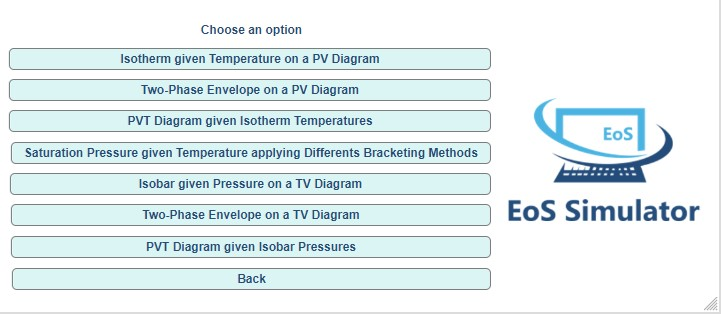
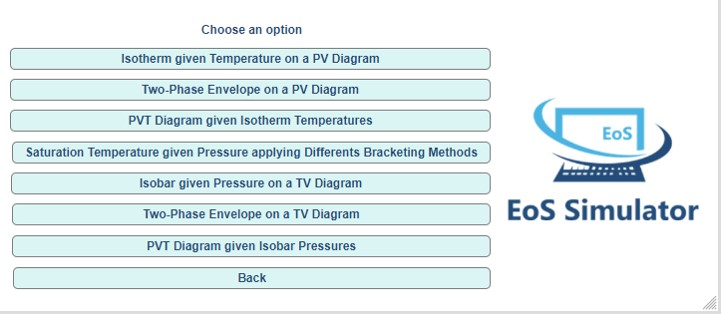
Code Documentation

diff --git a/Cubic Equations of State Simulator/Code Documentation/Volume 4 - Saturation Temperature given Pressure applying Differents Bracketing Methods.md b/Cubic Equations of State Simulator/Code Documentation/Volume 4 - Saturation Temperature given Pressure applying Differents Bracketing Methods.md
@@ -1,6 +1,6 @@
-# Saturation Pressure given Temperature applying Differents Bracketing Methods
+# Saturation Temperature given Pressure applying Differents Bracketing Methods
 
-This is the fourth option in the volume menu. Its interface is programmed in "Volume4.mlapp" and it uses the function called "Saturation_Pressure_given_Temperature.m" for thermodynamic calculations.
+This is the fourth option in the volume menu. Its interface is programmed in "Volume4.mlapp" and it uses the function called "Saturation_Temperature_given_Pressure.m" for thermodynamic calculations.
 
 ## 1. MATLAB App
 
@@ -39,7 +39,7 @@ classdef Volume4 < matlab.apps.AppBase
         BackButton                   matlab.ui.control.Button
         ExportButton                 matlab.ui.control.Button
         Table2vdW                    matlab.ui.control.Table
-        PsatgivenTapplyingDifferentsBracketingMethods  matlab.ui.control.Label
+        TsatgivenPapplyingDifferentsBracketingMethods  matlab.ui.control.Label
         Image                        matlab.ui.control.Image
         CalculateButton              matlab.ui.control.Button
         Figure1PR                    matlab.ui.control.UIAxes
@@ -82,7 +82,7 @@ classdef Volume4 < matlab.apps.AppBase
             if tam>0
                 progressbar=uiprogressdlg(app.UIFigure,"Title","Status","Message","Calculating","Indeterminate","on","Cancelable","off");
                 drawnow;
-                Saturation_Pressure_given_Temperature;
+                Saturation_Temperature_given_Pressure;
                 app.ExportButton.Visible="on";
                 app.TitleFigure1.Text=strcat(app.Compound.Value," - Iterations vs Saturation Pressure");
                 close(progressbar);
@@ -157,76 +157,76 @@ classdef Volume4 < matlab.apps.AppBase
             table2PR.Properties.VariableNames{'Var9'}='Iterations-P';
             table2PR.Properties.VariableNames{'Var10'}='Tsat-AB [K]';
             table2PR.Properties.VariableNames{'Var11'}='Iterations-AB';
-            writecell(cell(10,8),"./Results/Saturation Pressure given Temperature applying Differents Bracketing Methods.xlsx","Sheet","Total Iterations vs EoS","Range","A1");
-            writetable(table1,"./Results/Saturation Pressure given Temperature applying Differents Bracketing Methods.xlsx","Sheet","Total Iterations vs EoS","Range","A4");
-            writecell({'Compound'},"./Results/Saturation Pressure given Temperature applying Differents Bracketing Methods.xlsx","Sheet","Total Iterations vs EoS","Range","A1");
-            writecell({'Triple Temperature [K]'},"./Results/Saturation Pressure given Temperature applying Differents Bracketing Methods.xlsx","Sheet","Total Iterations vs EoS","Range","A2");
-            writecell({'Close to Critical Temperature (CCT) [K]'},"./Results/Saturation Pressure given Temperature applying Differents Bracketing Methods.xlsx","Sheet","Total Iterations vs EoS","Range","A3");
-            writecell({app.Compound.Value},"./Results/Saturation Pressure given Temperature applying Differents Bracketing Methods.xlsx","Sheet","Total Iterations vs EoS","Range","B1");
-            writematrix(str2double({app.TripleTemperature.Value}),"./Results/Saturation Pressure given Temperature applying Differents Bracketing Methods.xlsx","Sheet","Total Iterations vs EoS","Range","B2");
-            writematrix(str2double({app.CriticalTemperature.Value}),"./Results/Saturation Pressure given Temperature applying Differents Bracketing Methods.xlsx","Sheet","Total Iterations vs EoS","Range","B3");
-            writecell(cell(5000,11),"./Results/Saturation Pressure given Temperature applying Differents Bracketing Methods.xlsx","Sheet","vdW - Iterations vs Psat","Range","A1");
-            writetable(table2vdW,"./Results/Saturation Pressure given Temperature applying Differents Bracketing Methods.xlsx","Sheet","vdW - Iterations vs Psat");
+            writecell(cell(10,8),"./Results/Saturation Temperature given Pressure applying Differents Bracketing Methods.xlsx","Sheet","Total Iterations vs EoS","Range","A1");
+            writetable(table1,"./Results/Saturation Temperature given Pressure applying Differents Bracketing Methods.xlsx","Sheet","Total Iterations vs EoS","Range","A4");
+            writecell({'Compound'},"./Results/Saturation Temperature given Pressure applying Differents Bracketing Methods.xlsx","Sheet","Total Iterations vs EoS","Range","A1");
+            writecell({'Triple Temperature [K]'},"./Results/Saturation Temperature given Pressure applying Differents Bracketing Methods.xlsx","Sheet","Total Iterations vs EoS","Range","A2");
+            writecell({'Close to Critical Temperature (CCT) [K]'},"./Results/Saturation Temperature given Pressure applying Differents Bracketing Methods.xlsx","Sheet","Total Iterations vs EoS","Range","A3");
+            writecell({app.Compound.Value},"./Results/Saturation Temperature given Pressure applying Differents Bracketing Methods.xlsx","Sheet","Total Iterations vs EoS","Range","B1");
+            writematrix(str2double({app.TripleTemperature.Value}),"./Results/Saturation Temperature given Pressure applying Differents Bracketing Methods.xlsx","Sheet","Total Iterations vs EoS","Range","B2");
+            writematrix(str2double({app.CriticalTemperature.Value}),"./Results/Saturation Temperature given Pressure applying Differents Bracketing Methods.xlsx","Sheet","Total Iterations vs EoS","Range","B3");
+            writecell(cell(5000,11),"./Results/Saturation Temperature given Pressure applying Differents Bracketing Methods.xlsx","Sheet","vdW - Iterations vs Psat","Range","A1");
+            writetable(table2vdW,"./Results/Saturation Temperature given Pressure applying Differents Bracketing Methods.xlsx","Sheet","vdW - Iterations vs Psat");
             for i=2:1+height(table2vdW)
-                if ismissing(string(readcell("./Results/Saturation Pressure given Temperature applying Differents Bracketing Methods.xlsx","Sheet","vdW - Iterations vs Psat","Range",[i,2,i,2])))
-                    writecell({'NaN'},"./Results/Saturation Pressure given Temperature applying Differents Bracketing Methods.xlsx","Sheet","vdW - Iterations vs Psat","Range",['B',num2str(i)]);
-                    writecell({'NaN'},"./Results/Saturation Pressure given Temperature applying Differents Bracketing Methods.xlsx","Sheet","vdW - Iterations vs Psat","Range",['C',num2str(i)]);
-                    writecell({'NaN'},"./Results/Saturation Pressure given Temperature applying Differents Bracketing Methods.xlsx","Sheet","vdW - Iterations vs Psat","Range",['D',num2str(i)]);
-                    writecell({'NaN'},"./Results/Saturation Pressure given Temperature applying Differents Bracketing Methods.xlsx","Sheet","vdW - Iterations vs Psat","Range",['E',num2str(i)]);
-                    writecell({'NaN'},"./Results/Saturation Pressure given Temperature applying Differents Bracketing Methods.xlsx","Sheet","vdW - Iterations vs Psat","Range",['F',num2str(i)]);
-                    writecell({'NaN'},"./Results/Saturation Pressure given Temperature applying Differents Bracketing Methods.xlsx","Sheet","vdW - Iterations vs Psat","Range",['G',num2str(i)]);
-                    writecell({'NaN'},"./Results/Saturation Pressure given Temperature applying Differents Bracketing Methods.xlsx","Sheet","vdW - Iterations vs Psat","Range",['H',num2str(i)]);
-                    writecell({'NaN'},"./Results/Saturation Pressure given Temperature applying Differents Bracketing Methods.xlsx","Sheet","vdW - Iterations vs Psat","Range",['I',num2str(i)]);
-                    writecell({'NaN'},"./Results/Saturation Pressure given Temperature applying Differents Bracketing Methods.xlsx","Sheet","vdW - Iterations vs Psat","Range",['J',num2str(i)]);
-                    writecell({'NaN'},"./Results/Saturation Pressure given Temperature applying Differents Bracketing Methods.xlsx","Sheet","vdW - Iterations vs Psat","Range",['K',num2str(i)]);
+                if ismissing(string(readcell("./Results/Saturation Temperature given Pressure applying Differents Bracketing Methods.xlsx","Sheet","vdW - Iterations vs Psat","Range",[i,2,i,2])))
+                    writecell({'NaN'},"./Results/Saturation Temperature given Pressure applying Differents Bracketing Methods.xlsx","Sheet","vdW - Iterations vs Psat","Range",['B',num2str(i)]);
+                    writecell({'NaN'},"./Results/Saturation Temperature given Pressure applying Differents Bracketing Methods.xlsx","Sheet","vdW - Iterations vs Psat","Range",['C',num2str(i)]);
+                    writecell({'NaN'},"./Results/Saturation Temperature given Pressure applying Differents Bracketing Methods.xlsx","Sheet","vdW - Iterations vs Psat","Range",['D',num2str(i)]);
+                    writecell({'NaN'},"./Results/Saturation Temperature given Pressure applying Differents Bracketing Methods.xlsx","Sheet","vdW - Iterations vs Psat","Range",['E',num2str(i)]);
+                    writecell({'NaN'},"./Results/Saturation Temperature given Pressure applying Differents Bracketing Methods.xlsx","Sheet","vdW - Iterations vs Psat","Range",['F',num2str(i)]);
+                    writecell({'NaN'},"./Results/Saturation Temperature given Pressure applying Differents Bracketing Methods.xlsx","Sheet","vdW - Iterations vs Psat","Range",['G',num2str(i)]);
+                    writecell({'NaN'},"./Results/Saturation Temperature given Pressure applying Differents Bracketing Methods.xlsx","Sheet","vdW - Iterations vs Psat","Range",['H',num2str(i)]);
+                    writecell({'NaN'},"./Results/Saturation Temperature given Pressure applying Differents Bracketing Methods.xlsx","Sheet","vdW - Iterations vs Psat","Range",['I',num2str(i)]);
+                    writecell({'NaN'},"./Results/Saturation Temperature given Pressure applying Differents Bracketing Methods.xlsx","Sheet","vdW - Iterations vs Psat","Range",['J',num2str(i)]);
+                    writecell({'NaN'},"./Results/Saturation Temperature given Pressure applying Differents Bracketing Methods.xlsx","Sheet","vdW - Iterations vs Psat","Range",['K',num2str(i)]);
                 end
             end
-            writecell(cell(5000,11),"./Results/Saturation Pressure given Temperature applying Differents Bracketing Methods.xlsx","Sheet","RK - Iterations vs Psat","Range","A1");
-            writetable(table2RK,"./Results/Saturation Pressure given Temperature applying Differents Bracketing Methods.xlsx","Sheet","RK - Iterations vs Psat");
+            writecell(cell(5000,11),"./Results/Saturation Temperature given Pressure applying Differents Bracketing Methods.xlsx","Sheet","RK - Iterations vs Psat","Range","A1");
+            writetable(table2RK,"./Results/Saturation Temperature given Pressure applying Differents Bracketing Methods.xlsx","Sheet","RK - Iterations vs Psat");
             for i=2:1+height(table2RK)
-                if ismissing(string(readcell("./Results/Saturation Pressure given Temperature applying Differents Bracketing Methods.xlsx","Sheet","RK - Iterations vs Psat","Range",[i,2,i,2])))
-                    writecell({'NaN'},"./Results/Saturation Pressure given Temperature applying Differents Bracketing Methods.xlsx","Sheet","RK - Iterations vs Psat","Range",['B',num2str(i)]);
-                    writecell({'NaN'},"./Results/Saturation Pressure given Temperature applying Differents Bracketing Methods.xlsx","Sheet","RK - Iterations vs Psat","Range",['C',num2str(i)]);
-                    writecell({'NaN'},"./Results/Saturation Pressure given Temperature applying Differents Bracketing Methods.xlsx","Sheet","RK - Iterations vs Psat","Range",['D',num2str(i)]);
-                    writecell({'NaN'},"./Results/Saturation Pressure given Temperature applying Differents Bracketing Methods.xlsx","Sheet","RK - Iterations vs Psat","Range",['E',num2str(i)]);
-                    writecell({'NaN'},"./Results/Saturation Pressure given Temperature applying Differents Bracketing Methods.xlsx","Sheet","RK - Iterations vs Psat","Range",['F',num2str(i)]);
-                    writecell({'NaN'},"./Results/Saturation Pressure given Temperature applying Differents Bracketing Methods.xlsx","Sheet","RK - Iterations vs Psat","Range",['G',num2str(i)]);
-                    writecell({'NaN'},"./Results/Saturation Pressure given Temperature applying Differents Bracketing Methods.xlsx","Sheet","RK - Iterations vs Psat","Range",['H',num2str(i)]);
-                    writecell({'NaN'},"./Results/Saturation Pressure given Temperature applying Differents Bracketing Methods.xlsx","Sheet","RK - Iterations vs Psat","Range",['I',num2str(i)]);
-                    writecell({'NaN'},"./Results/Saturation Pressure given Temperature applying Differents Bracketing Methods.xlsx","Sheet","RK - Iterations vs Psat","Range",['J',num2str(i)]);
-                    writecell({'NaN'},"./Results/Saturation Pressure given Temperature applying Differents Bracketing Methods.xlsx","Sheet","RK - Iterations vs Psat","Range",['K',num2str(i)]);
+                if ismissing(string(readcell("./Results/Saturation Temperature given Pressure applying Differents Bracketing Methods.xlsx","Sheet","RK - Iterations vs Psat","Range",[i,2,i,2])))
+                    writecell({'NaN'},"./Results/Saturation Temperature given Pressure applying Differents Bracketing Methods.xlsx","Sheet","RK - Iterations vs Psat","Range",['B',num2str(i)]);
+                    writecell({'NaN'},"./Results/Saturation Temperature given Pressure applying Differents Bracketing Methods.xlsx","Sheet","RK - Iterations vs Psat","Range",['C',num2str(i)]);
+                    writecell({'NaN'},"./Results/Saturation Temperature given Pressure applying Differents Bracketing Methods.xlsx","Sheet","RK - Iterations vs Psat","Range",['D',num2str(i)]);
+                    writecell({'NaN'},"./Results/Saturation Temperature given Pressure applying Differents Bracketing Methods.xlsx","Sheet","RK - Iterations vs Psat","Range",['E',num2str(i)]);
+                    writecell({'NaN'},"./Results/Saturation Temperature given Pressure applying Differents Bracketing Methods.xlsx","Sheet","RK - Iterations vs Psat","Range",['F',num2str(i)]);
+                    writecell({'NaN'},"./Results/Saturation Temperature given Pressure applying Differents Bracketing Methods.xlsx","Sheet","RK - Iterations vs Psat","Range",['G',num2str(i)]);
+                    writecell({'NaN'},"./Results/Saturation Temperature given Pressure applying Differents Bracketing Methods.xlsx","Sheet","RK - Iterations vs Psat","Range",['H',num2str(i)]);
+                    writecell({'NaN'},"./Results/Saturation Temperature given Pressure applying Differents Bracketing Methods.xlsx","Sheet","RK - Iterations vs Psat","Range",['I',num2str(i)]);
+                    writecell({'NaN'},"./Results/Saturation Temperature given Pressure applying Differents Bracketing Methods.xlsx","Sheet","RK - Iterations vs Psat","Range",['J',num2str(i)]);
+                    writecell({'NaN'},"./Results/Saturation Temperature given Pressure applying Differents Bracketing Methods.xlsx","Sheet","RK - Iterations vs Psat","Range",['K',num2str(i)]);
                 end
             end
-            writecell(cell(5000,11),"./Results/Saturation Pressure given Temperature applying Differents Bracketing Methods.xlsx","Sheet","SRK - Iterations vs Psat","Range","A1");
-            writetable(table2SRK,"./Results/Saturation Pressure given Temperature applying Differents Bracketing Methods.xlsx","Sheet","SRK - Iterations vs Psat");
+            writecell(cell(5000,11),"./Results/Saturation Temperature given Pressure applying Differents Bracketing Methods.xlsx","Sheet","SRK - Iterations vs Psat","Range","A1");
+            writetable(table2SRK,"./Results/Saturation Temperature given Pressure applying Differents Bracketing Methods.xlsx","Sheet","SRK - Iterations vs Psat");
             for i=2:1+height(table2SRK)
-                if ismissing(string(readcell("./Results/Saturation Pressure given Temperature applying Differents Bracketing Methods.xlsx","Sheet","SRK - Iterations vs Psat","Range",[i,2,i,2])))
-                    writecell({'NaN'},"./Results/Saturation Pressure given Temperature applying Differents Bracketing Methods.xlsx","Sheet","SRK - Iterations vs Psat","Range",['B',num2str(i)]);
-                    writecell({'NaN'},"./Results/Saturation Pressure given Temperature applying Differents Bracketing Methods.xlsx","Sheet","SRK - Iterations vs Psat","Range",['C',num2str(i)]);
-                    writecell({'NaN'},"./Results/Saturation Pressure given Temperature applying Differents Bracketing Methods.xlsx","Sheet","SRK - Iterations vs Psat","Range",['D',num2str(i)]);
-                    writecell({'NaN'},"./Results/Saturation Pressure given Temperature applying Differents Bracketing Methods.xlsx","Sheet","SRK - Iterations vs Psat","Range",['E',num2str(i)]);
-                    writecell({'NaN'},"./Results/Saturation Pressure given Temperature applying Differents Bracketing Methods.xlsx","Sheet","SRK - Iterations vs Psat","Range",['F',num2str(i)]);
-                    writecell({'NaN'},"./Results/Saturation Pressure given Temperature applying Differents Bracketing Methods.xlsx","Sheet","SRK - Iterations vs Psat","Range",['G',num2str(i)]);
-                    writecell({'NaN'},"./Results/Saturation Pressure given Temperature applying Differents Bracketing Methods.xlsx","Sheet","SRK - Iterations vs Psat","Range",['H',num2str(i)]);
-                    writecell({'NaN'},"./Results/Saturation Pressure given Temperature applying Differents Bracketing Methods.xlsx","Sheet","SRK - Iterations vs Psat","Range",['I',num2str(i)]);
-                    writecell({'NaN'},"./Results/Saturation Pressure given Temperature applying Differents Bracketing Methods.xlsx","Sheet","SRK - Iterations vs Psat","Range",['J',num2str(i)]);
-                    writecell({'NaN'},"./Results/Saturation Pressure given Temperature applying Differents Bracketing Methods.xlsx","Sheet","SRK - Iterations vs Psat","Range",['K',num2str(i)]);
+                if ismissing(string(readcell("./Results/Saturation Temperature given Pressure applying Differents Bracketing Methods.xlsx","Sheet","SRK - Iterations vs Psat","Range",[i,2,i,2])))
+                    writecell({'NaN'},"./Results/Saturation Temperature given Pressure applying Differents Bracketing Methods.xlsx","Sheet","SRK - Iterations vs Psat","Range",['B',num2str(i)]);
+                    writecell({'NaN'},"./Results/Saturation Temperature given Pressure applying Differents Bracketing Methods.xlsx","Sheet","SRK - Iterations vs Psat","Range",['C',num2str(i)]);
+                    writecell({'NaN'},"./Results/Saturation Temperature given Pressure applying Differents Bracketing Methods.xlsx","Sheet","SRK - Iterations vs Psat","Range",['D',num2str(i)]);
+                    writecell({'NaN'},"./Results/Saturation Temperature given Pressure applying Differents Bracketing Methods.xlsx","Sheet","SRK - Iterations vs Psat","Range",['E',num2str(i)]);
+                    writecell({'NaN'},"./Results/Saturation Temperature given Pressure applying Differents Bracketing Methods.xlsx","Sheet","SRK - Iterations vs Psat","Range",['F',num2str(i)]);
+                    writecell({'NaN'},"./Results/Saturation Temperature given Pressure applying Differents Bracketing Methods.xlsx","Sheet","SRK - Iterations vs Psat","Range",['G',num2str(i)]);
+                    writecell({'NaN'},"./Results/Saturation Temperature given Pressure applying Differents Bracketing Methods.xlsx","Sheet","SRK - Iterations vs Psat","Range",['H',num2str(i)]);
+                    writecell({'NaN'},"./Results/Saturation Temperature given Pressure applying Differents Bracketing Methods.xlsx","Sheet","SRK - Iterations vs Psat","Range",['I',num2str(i)]);
+                    writecell({'NaN'},"./Results/Saturation Temperature given Pressure applying Differents Bracketing Methods.xlsx","Sheet","SRK - Iterations vs Psat","Range",['J',num2str(i)]);
+                    writecell({'NaN'},"./Results/Saturation Temperature given Pressure applying Differents Bracketing Methods.xlsx","Sheet","SRK - Iterations vs Psat","Range",['K',num2str(i)]);
                 end
             end
-            writecell(cell(5000,11),"./Results/Saturation Pressure given Temperature applying Differents Bracketing Methods.xlsx","Sheet","PR - Iterations vs Psat","Range","A1");
-            writetable(table2PR,"./Results/Saturation Pressure given Temperature applying Differents Bracketing Methods.xlsx","Sheet","PR - Iterations vs Psat");
+            writecell(cell(5000,11),"./Results/Saturation Temperature given Pressure applying Differents Bracketing Methods.xlsx","Sheet","PR - Iterations vs Psat","Range","A1");
+            writetable(table2PR,"./Results/Saturation Temperature given Pressure applying Differents Bracketing Methods.xlsx","Sheet","PR - Iterations vs Psat");
             for i=2:1+height(table2PR)
-                if ismissing(string(readcell("./Results/Saturation Pressure given Temperature applying Differents Bracketing Methods.xlsx","Sheet","PR - Iterations vs Psat","Range",[i,2,i,2])))
-                    writecell({'NaN'},"./Results/Saturation Pressure given Temperature applying Differents Bracketing Methods.xlsx","Sheet","PR - Iterations vs Psat","Range",['B',num2str(i)]);
-                    writecell({'NaN'},"./Results/Saturation Pressure given Temperature applying Differents Bracketing Methods.xlsx","Sheet","PR - Iterations vs Psat","Range",['C',num2str(i)]);
-                    writecell({'NaN'},"./Results/Saturation Pressure given Temperature applying Differents Bracketing Methods.xlsx","Sheet","PR - Iterations vs Psat","Range",['D',num2str(i)]);
-                    writecell({'NaN'},"./Results/Saturation Pressure given Temperature applying Differents Bracketing Methods.xlsx","Sheet","PR - Iterations vs Psat","Range",['E',num2str(i)]);
-                    writecell({'NaN'},"./Results/Saturation Pressure given Temperature applying Differents Bracketing Methods.xlsx","Sheet","PR - Iterations vs Psat","Range",['F',num2str(i)]);
-                    writecell({'NaN'},"./Results/Saturation Pressure given Temperature applying Differents Bracketing Methods.xlsx","Sheet","PR - Iterations vs Psat","Range",['G',num2str(i)]);
-                    writecell({'NaN'},"./Results/Saturation Pressure given Temperature applying Differents Bracketing Methods.xlsx","Sheet","PR - Iterations vs Psat","Range",['H',num2str(i)]);
-                    writecell({'NaN'},"./Results/Saturation Pressure given Temperature applying Differents Bracketing Methods.xlsx","Sheet","PR - Iterations vs Psat","Range",['I',num2str(i)]);
-                    writecell({'NaN'},"./Results/Saturation Pressure given Temperature applying Differents Bracketing Methods.xlsx","Sheet","PR - Iterations vs Psat","Range",['J',num2str(i)]);
-                    writecell({'NaN'},"./Results/Saturation Pressure given Temperature applying Differents Bracketing Methods.xlsx","Sheet","PR - Iterations vs Psat","Range",['K',num2str(i)]);
+                if ismissing(string(readcell("./Results/Saturation Temperature given Pressure applying Differents Bracketing Methods.xlsx","Sheet","PR - Iterations vs Psat","Range",[i,2,i,2])))
+                    writecell({'NaN'},"./Results/Saturation Temperature given Pressure applying Differents Bracketing Methods.xlsx","Sheet","PR - Iterations vs Psat","Range",['B',num2str(i)]);
+                    writecell({'NaN'},"./Results/Saturation Temperature given Pressure applying Differents Bracketing Methods.xlsx","Sheet","PR - Iterations vs Psat","Range",['C',num2str(i)]);
+                    writecell({'NaN'},"./Results/Saturation Temperature given Pressure applying Differents Bracketing Methods.xlsx","Sheet","PR - Iterations vs Psat","Range",['D',num2str(i)]);
+                    writecell({'NaN'},"./Results/Saturation Temperature given Pressure applying Differents Bracketing Methods.xlsx","Sheet","PR - Iterations vs Psat","Range",['E',num2str(i)]);
+                    writecell({'NaN'},"./Results/Saturation Temperature given Pressure applying Differents Bracketing Methods.xlsx","Sheet","PR - Iterations vs Psat","Range",['F',num2str(i)]);
+                    writecell({'NaN'},"./Results/Saturation Temperature given Pressure applying Differents Bracketing Methods.xlsx","Sheet","PR - Iterations vs Psat","Range",['G',num2str(i)]);
+                    writecell({'NaN'},"./Results/Saturation Temperature given Pressure applying Differents Bracketing Methods.xlsx","Sheet","PR - Iterations vs Psat","Range",['H',num2str(i)]);
+                    writecell({'NaN'},"./Results/Saturation Temperature given Pressure applying Differents Bracketing Methods.xlsx","Sheet","PR - Iterations vs Psat","Range",['I',num2str(i)]);
+                    writecell({'NaN'},"./Results/Saturation Temperature given Pressure applying Differents Bracketing Methods.xlsx","Sheet","PR - Iterations vs Psat","Range",['J',num2str(i)]);
+                    writecell({'NaN'},"./Results/Saturation Temperature given Pressure applying Differents Bracketing Methods.xlsx","Sheet","PR - Iterations vs Psat","Range",['K',num2str(i)]);
                 end
             end
             close(progressbar);
@@ -266,7 +266,7 @@ classdef Volume4 < matlab.apps.AppBase
             app.UIFigure = uifigure('Visible', 'off');
             app.UIFigure.Color = [1 1 1];
             app.UIFigure.Position = [100 100 1221 665];
-            app.UIFigure.Name = 'Saturation Pressure given Temperature applying Differents Bracketing Methods';
+            app.UIFigure.Name = 'Saturation Temperature given Pressure applying Differents Bracketing Methods';
             app.UIFigure.Icon = fullfile(pathToMLAPP, 'Logoico.png');
             app.UIFigure.Resize = 'off';
 
@@ -357,14 +357,14 @@ classdef Volume4 < matlab.apps.AppBase
             app.Image.Position = [67 504 116 101];
             app.Image.ImageSource = fullfile(pathToMLAPP, 'Logoico.png');
 
-            % Create PsatgivenTapplyingDifferentsBracketingMethods
-            app.PsatgivenTapplyingDifferentsBracketingMethods = uilabel(app.UIFigure);
-            app.PsatgivenTapplyingDifferentsBracketingMethods.HorizontalAlignment = 'center';
-            app.PsatgivenTapplyingDifferentsBracketingMethods.FontSize = 20;
-            app.PsatgivenTapplyingDifferentsBracketingMethods.FontWeight = 'bold';
-            app.PsatgivenTapplyingDifferentsBracketingMethods.FontColor = [0.1412 0.302 0.4784];
-            app.PsatgivenTapplyingDifferentsBracketingMethods.Position = [17 604 578 48];
-            app.PsatgivenTapplyingDifferentsBracketingMethods.Text = {'Saturation Pressure '; 'given Temperature applying Differents Bracketing Methods'};
+            % Create TsatgivenPapplyingDifferentsBracketingMethods
+            app.TsatgivenPapplyingDifferentsBracketingMethods = uilabel(app.UIFigure);
+            app.TsatgivenPapplyingDifferentsBracketingMethods.HorizontalAlignment = 'center';
+            app.TsatgivenPapplyingDifferentsBracketingMethods.FontSize = 20;
+            app.TsatgivenPapplyingDifferentsBracketingMethods.FontWeight = 'bold';
+            app.TsatgivenPapplyingDifferentsBracketingMethods.FontColor = [0.1412 0.302 0.4784];
+            app.TsatgivenPapplyingDifferentsBracketingMethods.Position = [35 604 543 48];
+            app.TsatgivenPapplyingDifferentsBracketingMethods.Text = {'Saturation Temperature '; 'given Pressure applying Differents Bracketing Methods'};
 
             % Create Table2vdW
             app.Table2vdW = uitable(app.UIFigure);
